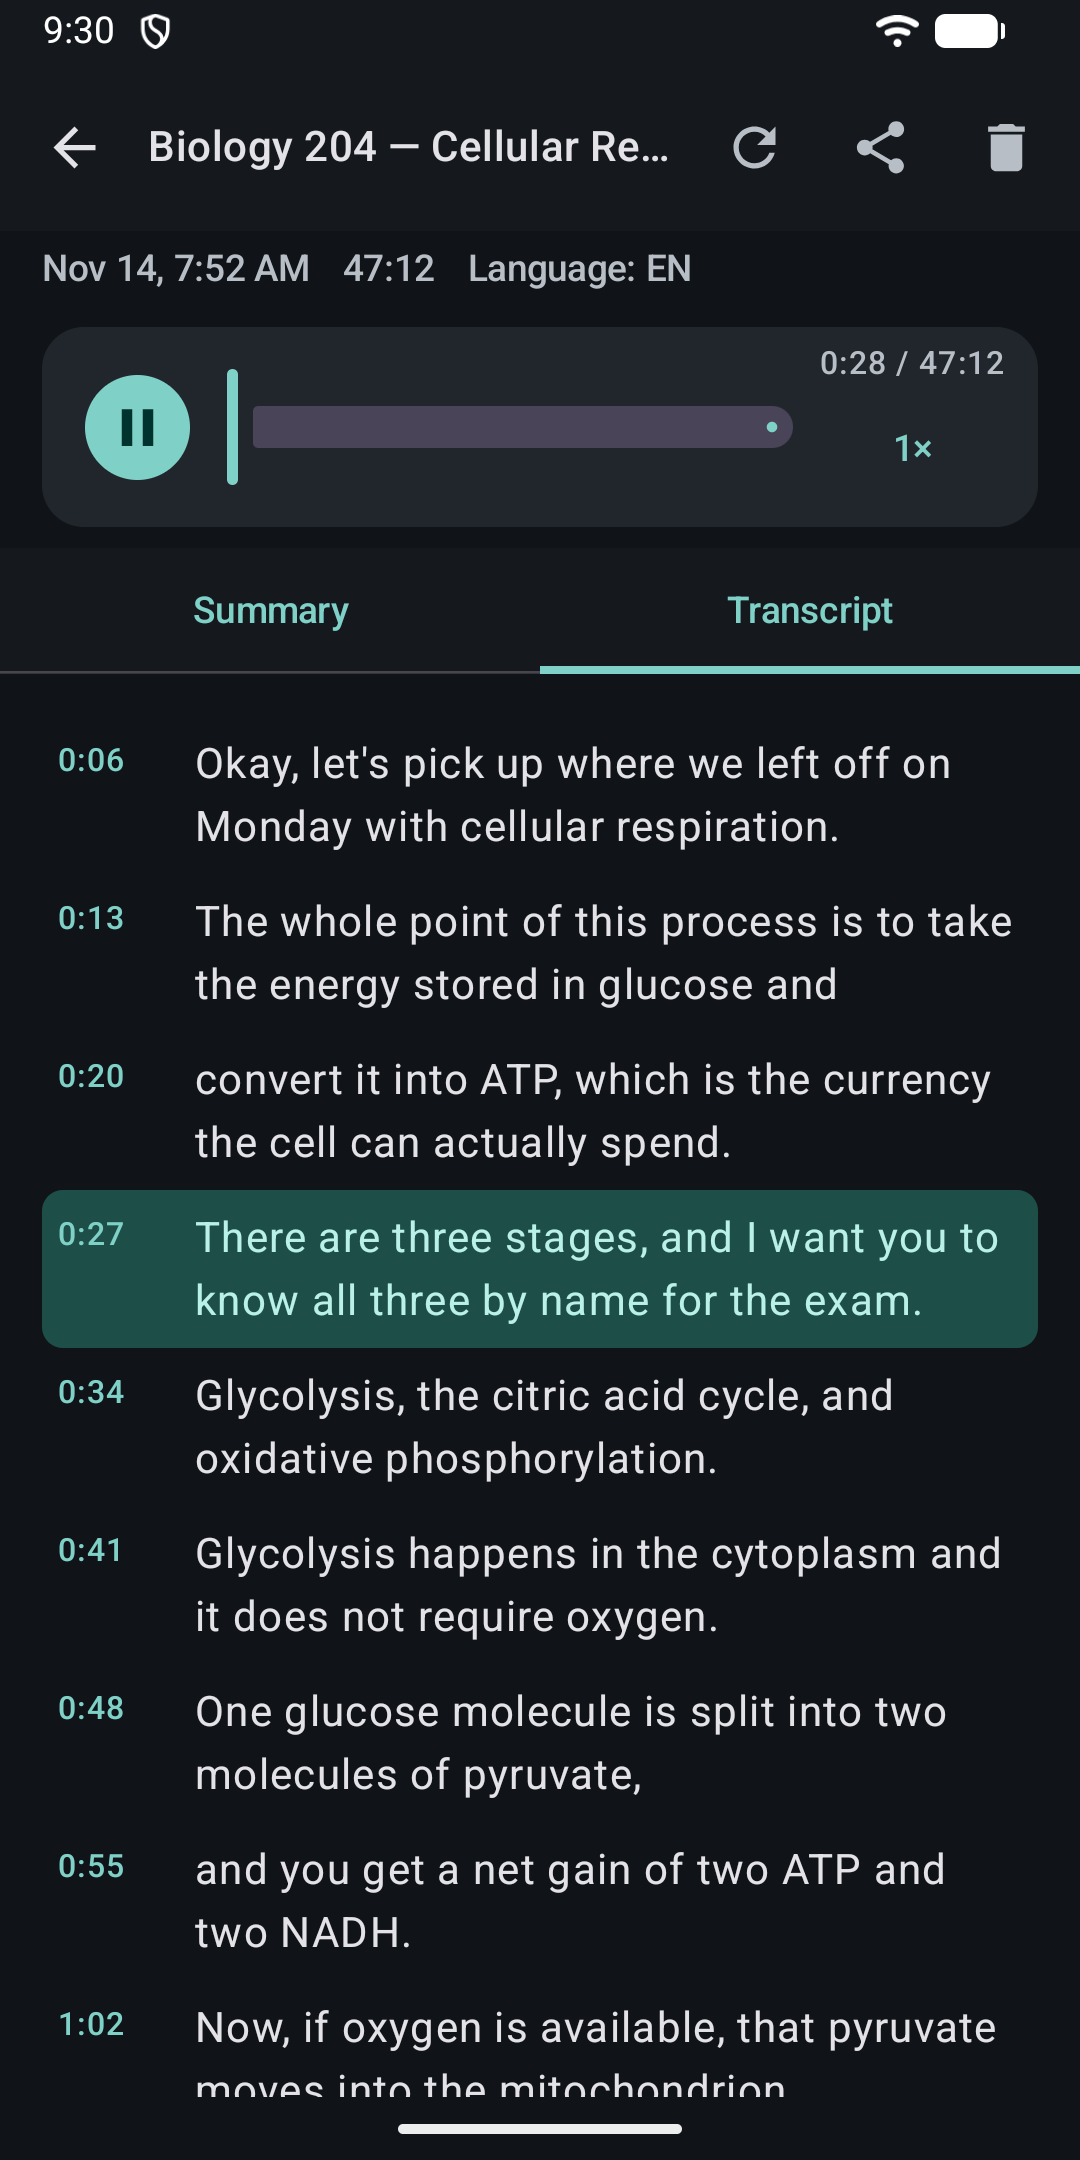
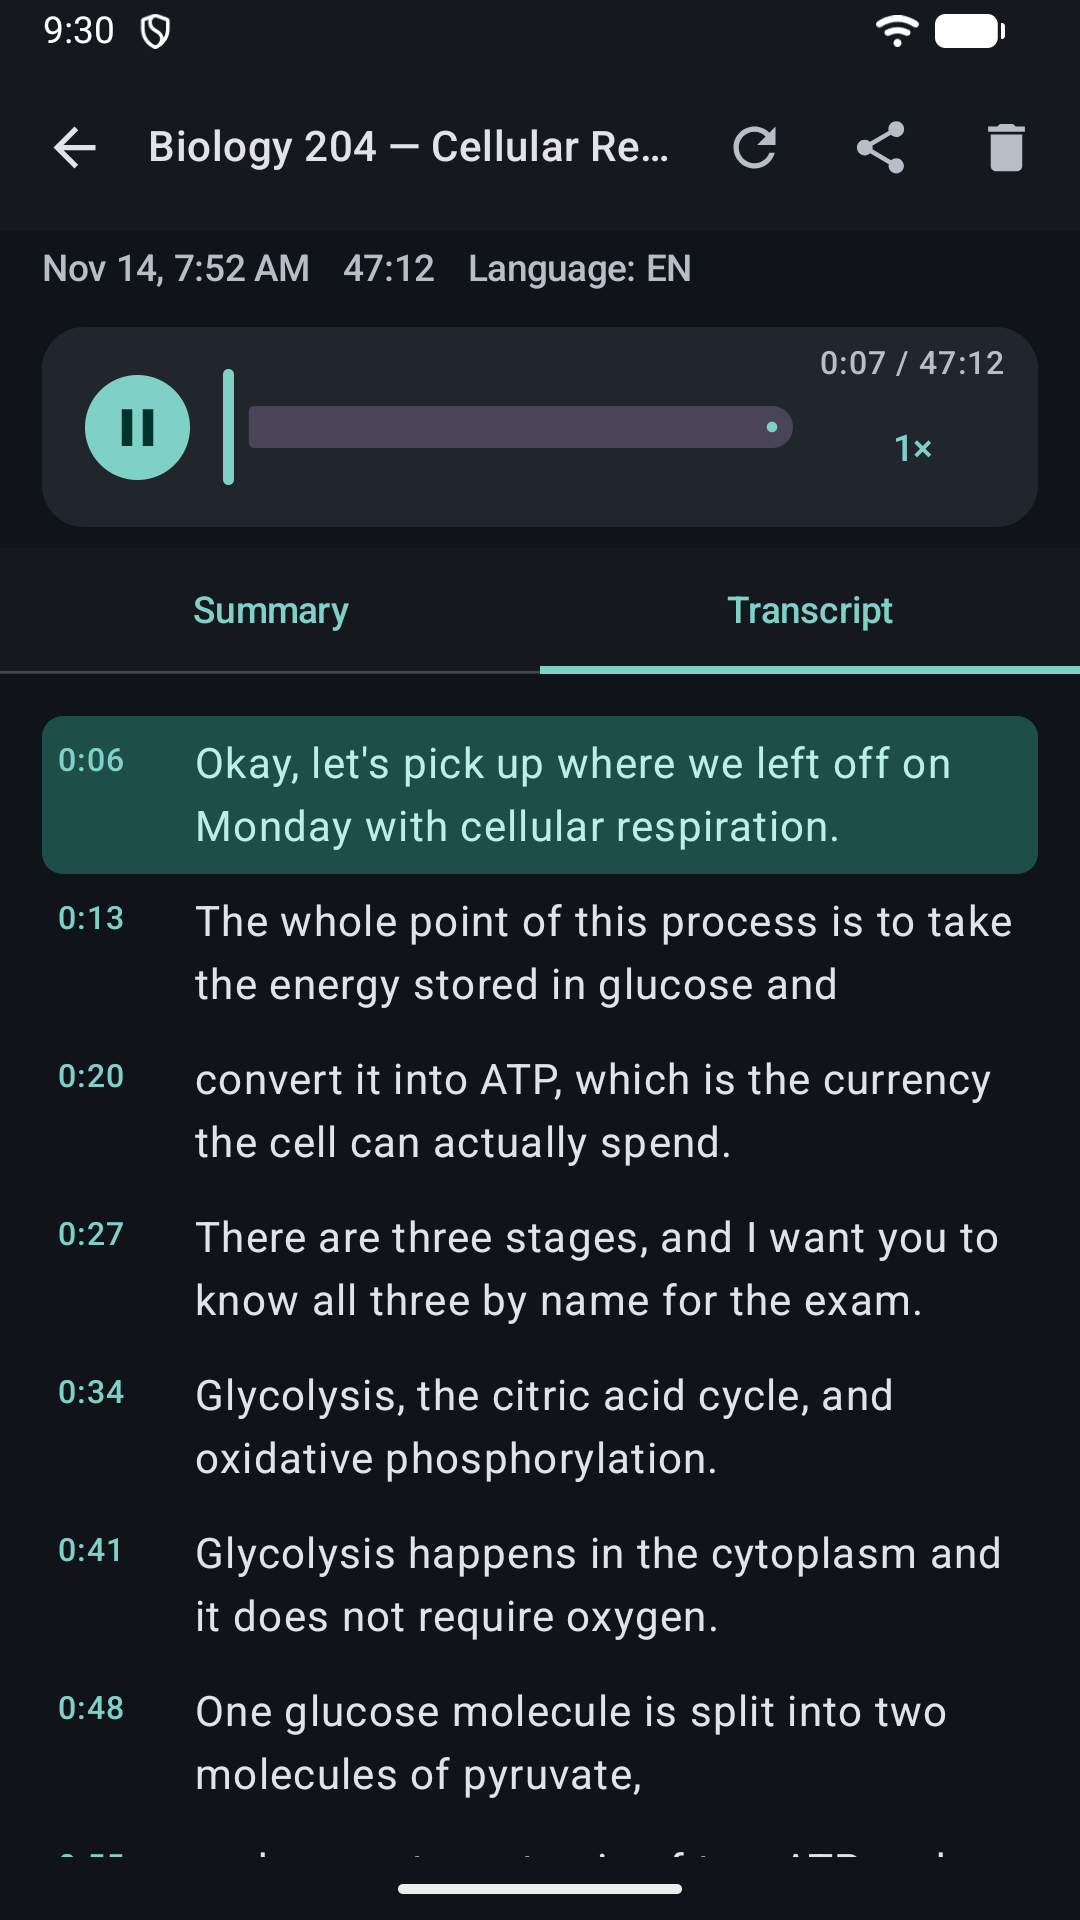
Reshoot the store screenshots at 9:16
Play's phone screenshots must be 16:9 or 9:16 exactly. 1080x2160 is neither:
the Console accepts the upload but files it under "Needs cropping" and hands
the framing to a crop tool rather than using the image. Reshot at 1080x1920 —
the emulator laid out to that size, so nothing is cropped and nothing is lost
off the bottom.

The transcript shots also now show the highlight they are meant to show.
Tapping a line is itself tap-to-play, so the extra tap on the play button was
pausing it again, and the active-line highlight only renders while playing.
Playing from the first line keeps the list at the top as well, since the view
scrolls the active line to a third from the top.

diff --git a/store/seed-demo-data.py b/store/seed-demo-data.py
@@ -10,6 +10,8 @@ realistic library straight into the app's private directory instead.
     adb shell run-as com.vikash.voicescribe sh < store/seed.sh
 
 Needs a DEBUG build installed (run-as only works on debuggable packages).
+Shoot at `adb shell wm size 1080x1920`: Play's phone screenshots must be 9:16
+exactly, and anything taller lands in the Console's "Needs cropping" bucket.
 The audio is silence sized to match each recording's stated duration, so the
 player shows the right length and the transcript timestamps line up.
 """
